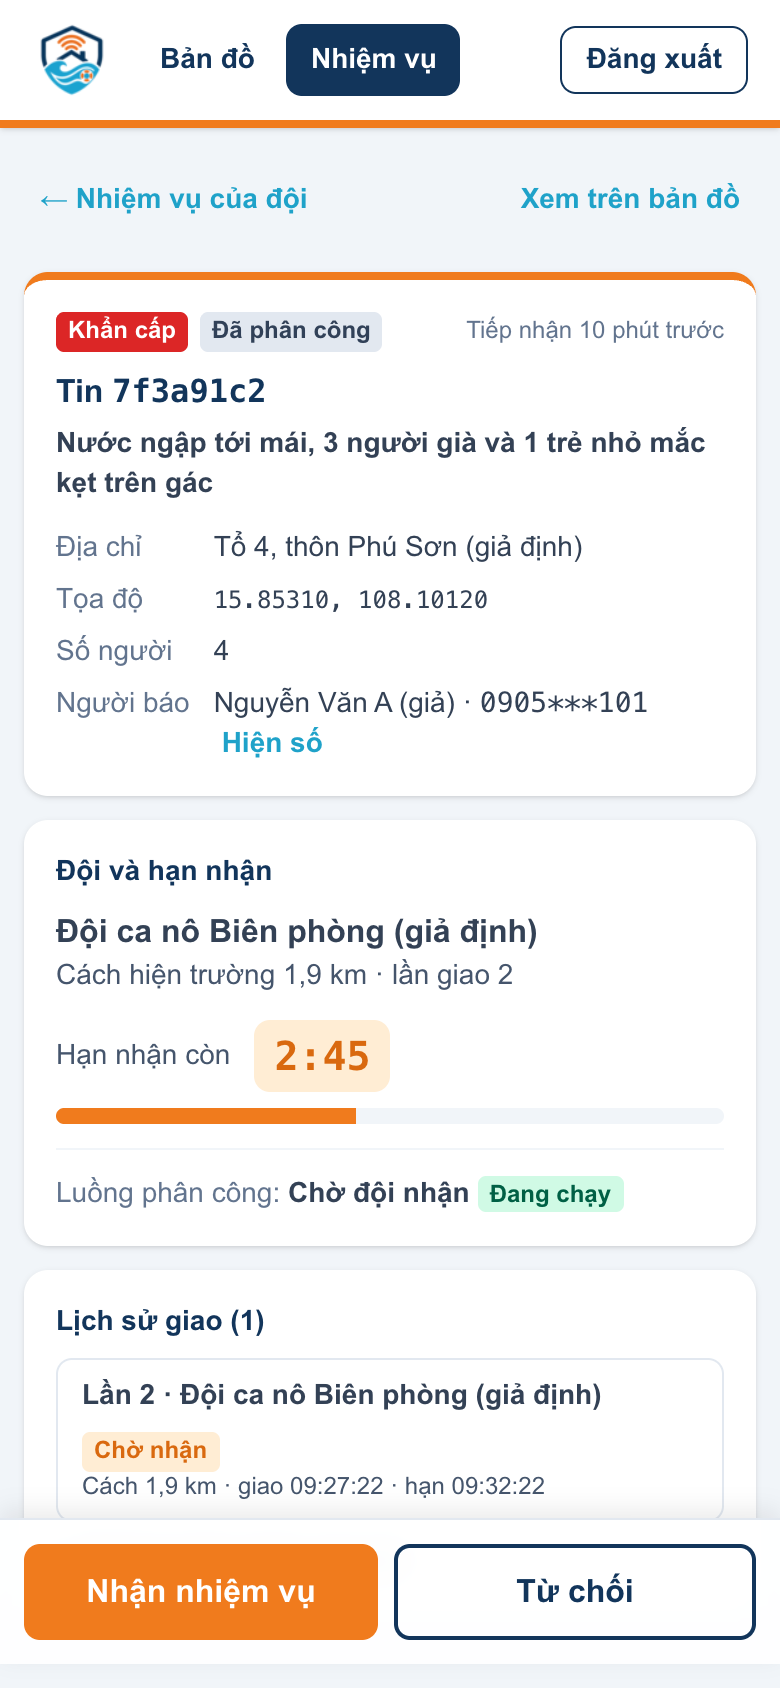
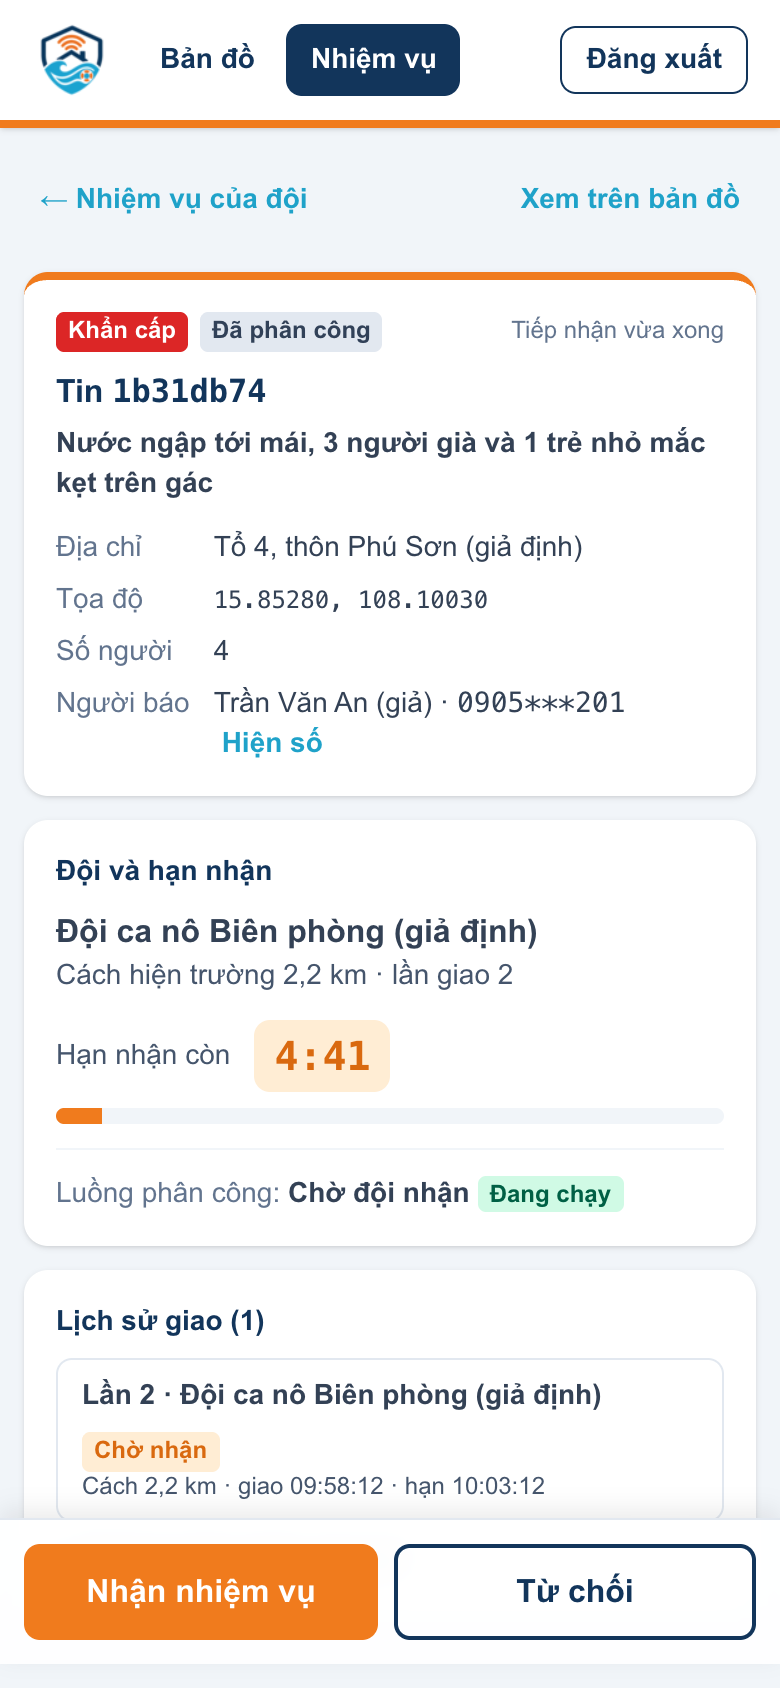
test(web): chạy make smoke 548/548 trên stack thật, chụp lại ảnh màn phân công (#61)

diff --git a/CHANGELOG.md b/CHANGELOG.md
@@ -8,7 +8,7 @@
 - Màn phân công cứu hộ trên web điều phối (#61), chỉ gọi lõi qua API Gateway (`/graphql` và `/workflow/*` có sẵn, không thêm endpoint). `/phan-cong`: vai `dieu-phoi` thấy 4 nhóm **Cần xử lý** (thông báo `can_xu_ly` từ Centrifugo, #68) · **Chờ phân công** · **Đang phân công** · **Đang cứu**; vai `cuu-ho` thấy nhiệm vụ đang giao cho đội mình (Hasura lọc theo thành viên đội). Mỗi thẻ có mức khẩn, mô tả, đội đang giao + khoảng cách, số lần giao, đếm ngược hạn nhận. Hàng đợi tải lại khi subscription bản đồ (#60) báo tin đổi trạng thái và mỗi 15 giây; không hỏi SĐT.
 - `/phan-cong/<id>` (#61): thông tin tin, đội hiện tại, khoảng cách, đồng hồ hạn nhận (theo `incident_assignments.deadline_at`), bước và kết quả của workflow (`GET /workflow/phan-cong-<id>`), lịch sử giao (đội, lần, kết quả, người, ghi chú) và nhật ký luồng. Nút theo vai: điều phối **Phân công tự động** (tin `tiep_nhan`, không có luồng đang chạy), **Đổi đội** (signal từ chối do điều phối gửi, ghi chú "Điều phối đổi đội: …", workflow giao đội gần nhất kế tiếp), **Hủy phân công** (trước khi đội nhận), **Xác nhận đã cứu**; cứu hộ **Nhận nhiệm vụ** / **Từ chối** (kèm ghi chú) khi chờ nhận, **Xác nhận đã cứu** khi đang cứu. Sau thao tác chờ workflow sang bước mới rồi tải lại; kết quả báo bằng tiếng Việt (`aria-live`), lỗi 401/403/404/409/422/429/5xx và mất mạng có câu riêng, gồm đội cũ nhận muộn / quá hạn. Ẩn nút theo vai chỉ là giao diện: API và Hasura vẫn kiểm quyền. SĐT người báo chỉ ở chi tiết, chỉ với vai được Hasura cho đọc, che giữa tới khi bấm "Hiện số" (có liên kết gọi).
 - Điều hướng Bản đồ ↔ Phân công/Nhiệm vụ trên thanh đầu trang; ô chi tiết trên bản đồ có nút "Mở phân công"; `/?tin=<id>` mở sẵn tin trên bản đồ. Giao diện dùng được trên điện thoại: thanh nút cố định cuối màn hình, nút cao ≥ 48 px (#61).
-- Kiểm thử (#61): Vitest 77 → 107 ca (`tests/phan-cong.test.ts`: vai, query không hỏi SĐT, đọc hàng/lịch sử giao, nhóm tin, nút theo vai và bước, đếm ngược; `tests/workflow-api.test.ts`: đường dẫn từng thao tác, `fetch` giả kiểm URL/header/body, đọc `detail` của FastAPI, mã lỗi → thông báo). `scripts/smoke-phan-cong.sh` (trong `make smoke`, chạy NGUYÊN VĂN query GraphQL của web đọc từ `utils/phan-cong.ts`): đường SPA, hàng đợi/chi tiết theo vai, vai sai → 403, điều phối đổi đội, cứu hộ nhận → đang cứu → đã cứu, bấm lặp → 409.
+- Kiểm thử (#61): Vitest 77 → 107 ca (`tests/phan-cong.test.ts`: vai, query không hỏi SĐT, đọc hàng/lịch sử giao, nhóm tin, nút theo vai và bước, đếm ngược; `tests/workflow-api.test.ts`: đường dẫn từng thao tác, `fetch` giả kiểm URL/header/body, đọc `detail` của FastAPI, mã lỗi → thông báo). `scripts/smoke-phan-cong.sh` (trong `make smoke`, chạy NGUYÊN VĂN query GraphQL của web đọc từ `utils/phan-cong.ts`): đường SPA, hàng đợi/chi tiết theo vai, vai sai → 403, điều phối đổi đội, cứu hộ nhận → đang cứu → đã cứu, bấm lặp → 409 (33 ca). `make smoke` 515 → 548 ca trên volume trống. Ảnh `docs/images/web-phan-cong-*.png` chụp trên stack thật.
 - API tiếp nhận tin kêu cứu có Poka-yoke qua gateway `POST /workflow/keu-cuu` (#66, `cuu_tro_workflow/keu_cuu.py`): vai `dieu-phoi`, `tinh-nguyen` (không mở gửi ẩn danh); bắt buộc tọa độ là số, trong khoảng và trong vùng phục vụ (`KEU_CUU_VUNG_PHUC_VU`, mặc định Việt Nam); SĐT di động Việt Nam, chuẩn hóa `+84`/dấu cách về `0…`; `urgency` 4 giá trị; mô tả 1..500 ký tự; số người 1..10000; trường lạ bị từ chối. Lỗi trả `422` liệt kê mọi trường sai bằng tiếng Việt; tin trùng (trigger CSDL #25: cùng SĐT, tin còn mở, `ST_DWithin` 200 m, 6 giờ) trả `409` kèm mã tin đang mở và khoảng cách, không tạo tin mới. Tin mới vào outbox phân công tự động (#67) và hiện trên bản đồ realtime (#60) như luồng hiện có. Không ghi SĐT ra log, không trả lại SĐT.
 - Migration `0008_api_keu_cuu.sql` (#66): role `cuu_tro_app` được `INSERT` theo cột (không `status`, `assigned_team_id`) và đọc `created_at`, vẫn không đọc SĐT/tên người báo; trigger chặn trùng `incidents_block_duplicate` chạy `SECURITY DEFINER`. Khóa advisory theo SĐT có từ #25 bảo đảm gửi đồng thời không cùng lọt.
 - Kiểm thử (#66): 45 pytest (`tests/test_cuu_tro_keu_cuu.py`), `db/tests/0008` (INSERT thật bằng `cuu_tro_app`: thiếu tọa độ, SĐT sai, trùng trong 200 m, khác SĐT cùng chỗ, cùng SĐT ngoài 200 m, dạng DETAIL, quyền theo cột), `scripts/smoke-keu-cuu.sh` (trong `make smoke`): 401/403, các ca 422, 201 + outbox + `/graphql` + subscription bản đồ, 409 kèm mã tin, gửi đồng thời qua gateway (1 × 201, 4 × 409) và bằng hai phiên PostgreSQL, WAF vẫn chặn XSS, log không có SĐT, 429 (26 ca). `make smoke` 467 → 515 ca trên volume trống.

diff --git a/docs/images/README.md b/docs/images/README.md
@@ -14,7 +14,7 @@
 | `web-dieu-phoi.png` | Ảnh chụp web điều phối (#60): bản đồ + danh sách tin kêu cứu thời gian thực qua GraphQL subscription, cụm điểm, tin vừa đến nhấp nháy và nổi lên đầu danh sách; tin mẫu (dữ liệu giả) trong stack thật, đăng nhập bằng tài khoản mẫu (1440×900) | Mô tả PR #60, `apps/cuu-tro/web/README.md` | Đội chụp bằng Chrome headless từ bản build. Bản đồ nền: OpenFreeMap, dữ liệu © những người đóng góp OpenStreetMap (ODbL-1.0), ghi công ở góc ảnh |
 | `web-ban-do-chi-tiet.png` | Ảnh chụp (#60): bấm một tin vừa đến → ô chi tiết (mô tả, đội được phân công tự động, SĐT che giữa), bản đồ bay tới điểm (1440×900) | Mô tả PR #60, `apps/cuu-tro/web/README.md` | Như trên |
 | `web-mat-ket-noi.png` | Ảnh chụp (#60): Hasura dừng → băng "Mất kết nối tới máy chủ", nút Thử lại, dữ liệu cũ kèm giờ cập nhật cuối (1440×900) | Mô tả PR #60, `apps/cuu-tro/web/README.md` | Như trên |
-| `web-phan-cong-dieu-phoi.png` | Ảnh chụp màn phân công (#61), vai điều phối: 4 nhóm Cần xử lý · Chờ phân công · Đang phân công · Đang cứu, đội đang giao, đếm ngược hạn nhận (1440×900) | Mô tả PR #61, `apps/cuu-tro/web/README.md` | Đội chụp bằng Chrome headless từ bản build web, **gateway giả lập trả dữ liệu giả** (máy không đủ ổ chạy stack thật lúc chụp); giao diện và luồng giống stack thật |
+| `web-phan-cong-dieu-phoi.png` | Ảnh chụp màn phân công (#61), vai điều phối: 4 nhóm Cần xử lý · Chờ phân công · Đang phân công · Đang cứu, đội đang giao, đếm ngược hạn nhận, tin seed và tin mới (1440×900) | Mô tả PR #61, `apps/cuu-tro/web/README.md` | Đội chụp bằng Chrome headless trên stack thật (project tạm, volume trống), tin mẫu là dữ liệu giả tạo qua `POST /workflow/keu-cuu`, đăng nhập bằng tài khoản mẫu; tin "Cần xử lý" là sự kiện thật của workflow (không còn đội sau 3 lần giao) |
 | `web-phan-cong-doi-doi.png` | Ảnh chụp (#61): điều phối bấm Đổi đội kèm lý do → thông báo thành công, đội mới + hạn nhận mới, lịch sử ghi lần từ chối do điều phối (1440×900) | Như trên | Như trên |
 | `web-phan-cong-cuu-ho.png` | Ảnh chụp (#61), vai cứu hộ trên điện thoại: chi tiết nhiệm vụ, SĐT che giữa, hạn nhận còn lại, nút Nhận nhiệm vụ / Từ chối cố định cuối màn hình (390×844, @2x) | Như trên | Như trên |
 | `web-phan-cong-nhan-muon.png` | Ảnh chụp (#61): đội cũ bấm Nhận sau khi điều phối đã đổi đội → API 403, thông báo tiếng Việt (390×844, @2x) | Như trên | Như trên |

diff --git a/apps/cuu-tro/web/README.md b/apps/cuu-tro/web/README.md
@@ -79,7 +79,7 @@ Hai đường mới, chỉ gọi lõi qua API Gateway bằng JWT của người 
 |---|---|---|---|
 | ![Hàng đợi phân công của điều phối](../../../docs/images/web-phan-cong-dieu-phoi.png) | ![Đổi đội kèm lý do](../../../docs/images/web-phan-cong-doi-doi.png) | ![Chi tiết nhiệm vụ trên điện thoại](../../../docs/images/web-phan-cong-cuu-ho.png) | ![Đội cũ nhận muộn: 403](../../../docs/images/web-phan-cong-nhan-muon.png) |
 
-Ảnh chụp từ bản build web với gateway giả lập trả dữ liệu giả (`docs/images/README.md`). Kiểm trên stack thật: `bash scripts/smoke-phan-cong.sh` (trong `make smoke`), chạy nguyên văn query GraphQL của web.
+Ảnh chụp trên stack thật với tin mẫu là dữ liệu giả (`docs/images/README.md`). Kiểm trên stack thật: `bash scripts/smoke-phan-cong.sh` (trong `make smoke`), chạy nguyên văn query GraphQL của web.
 
 ## Kiểm thử
 
